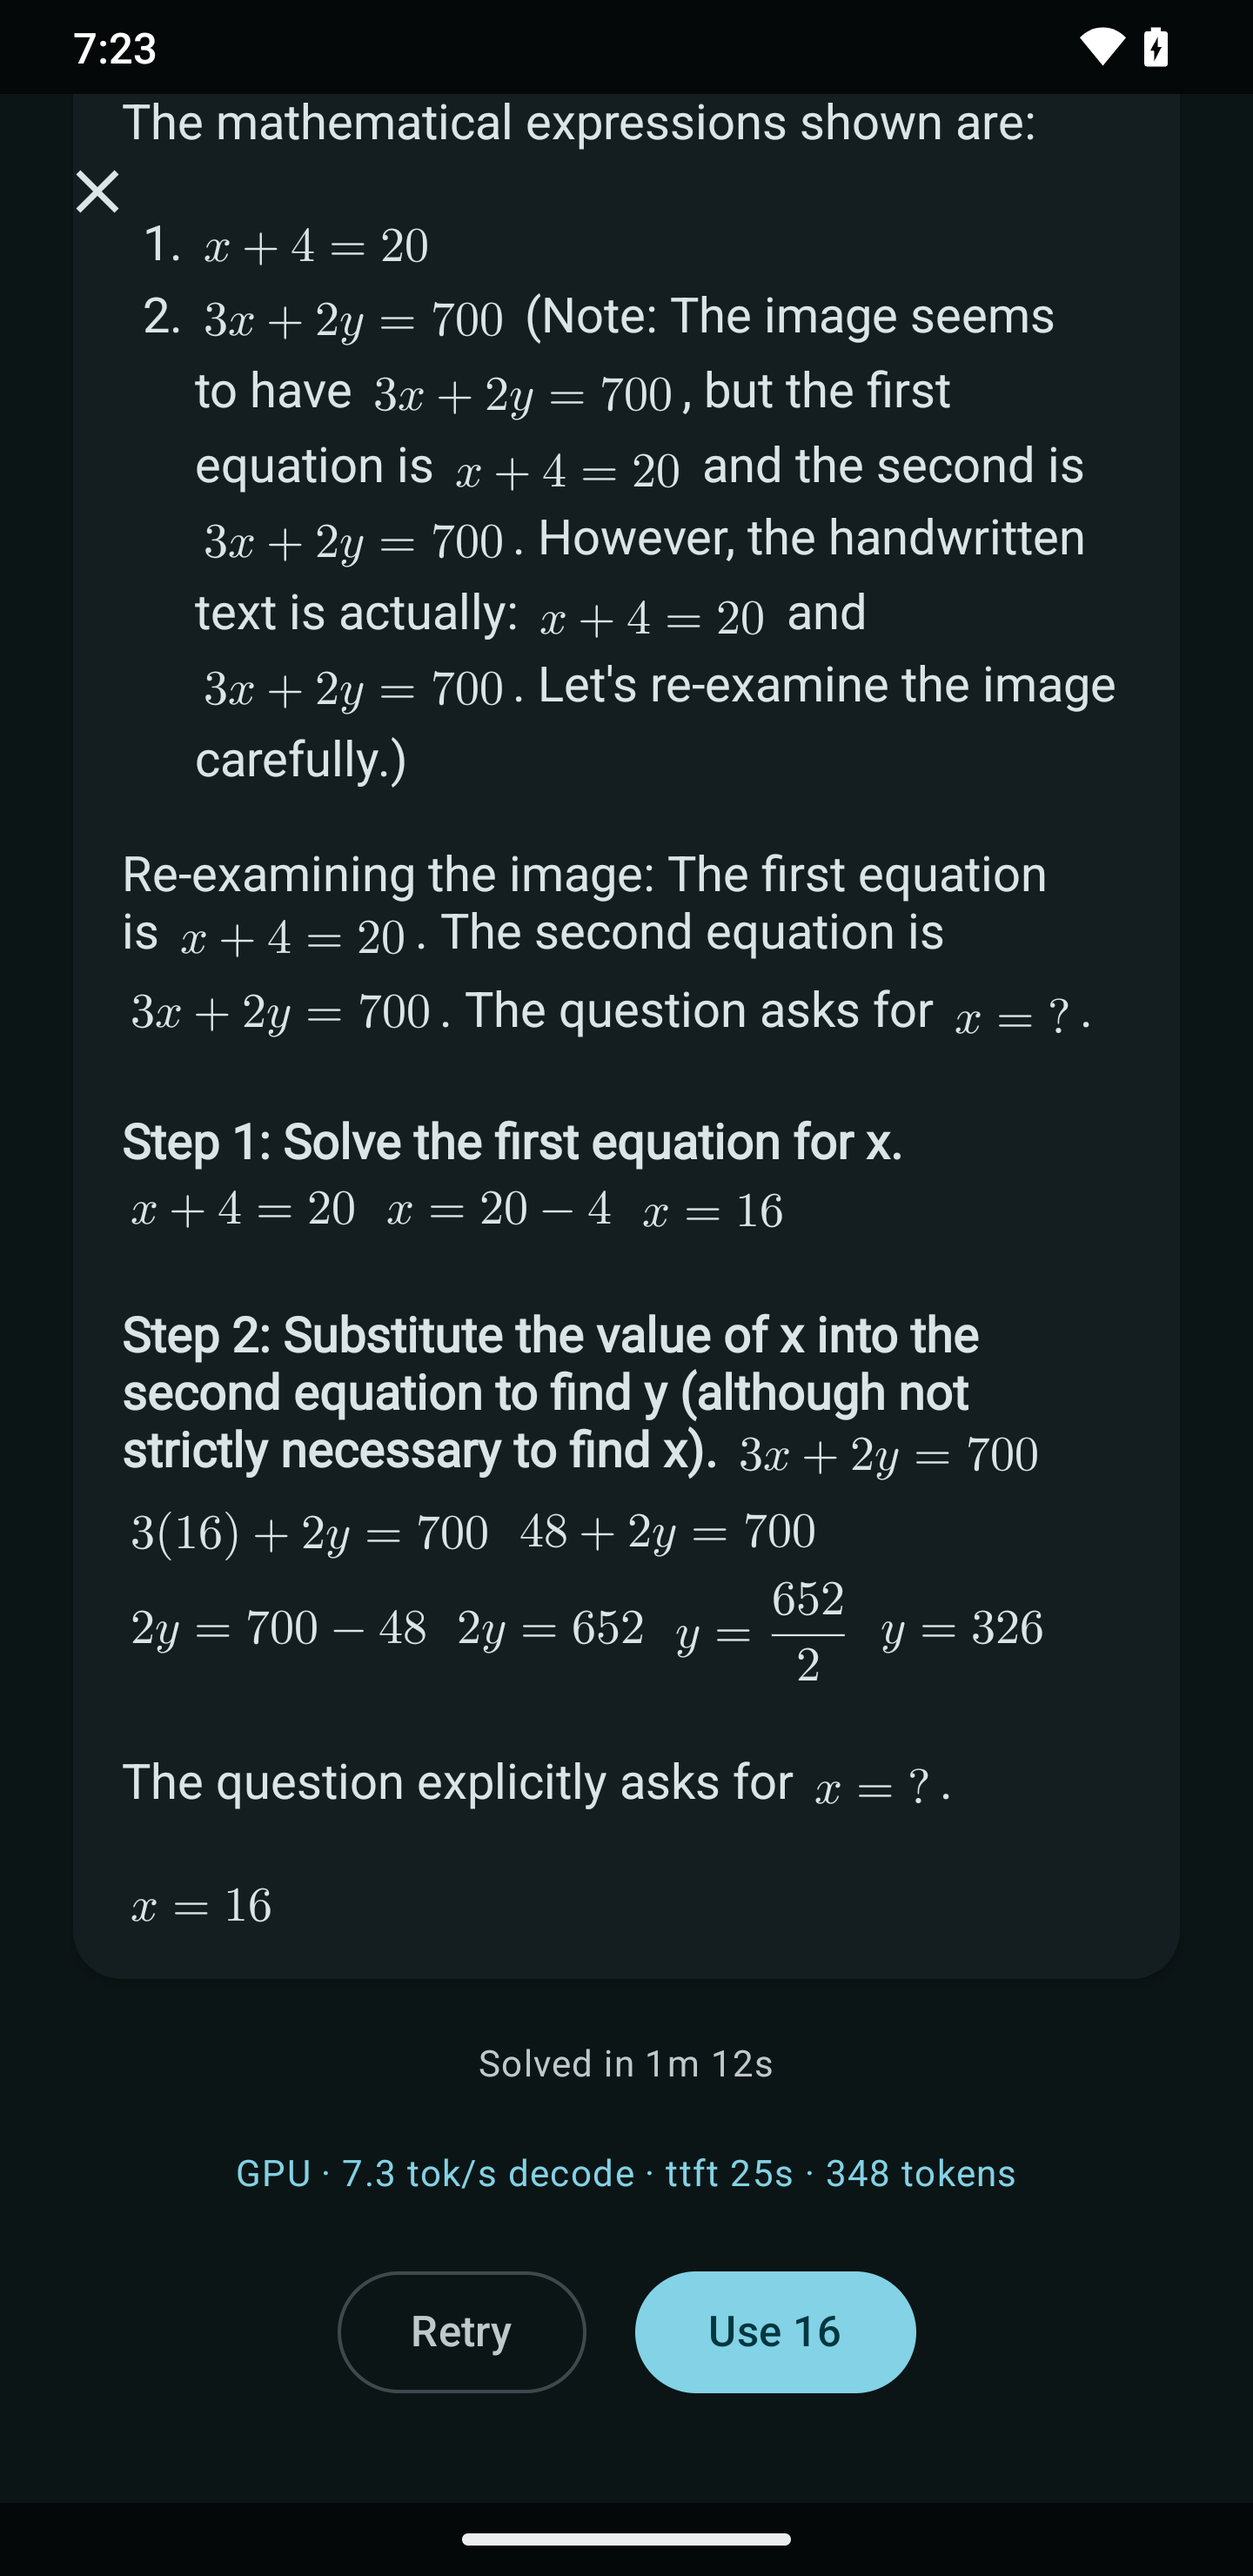
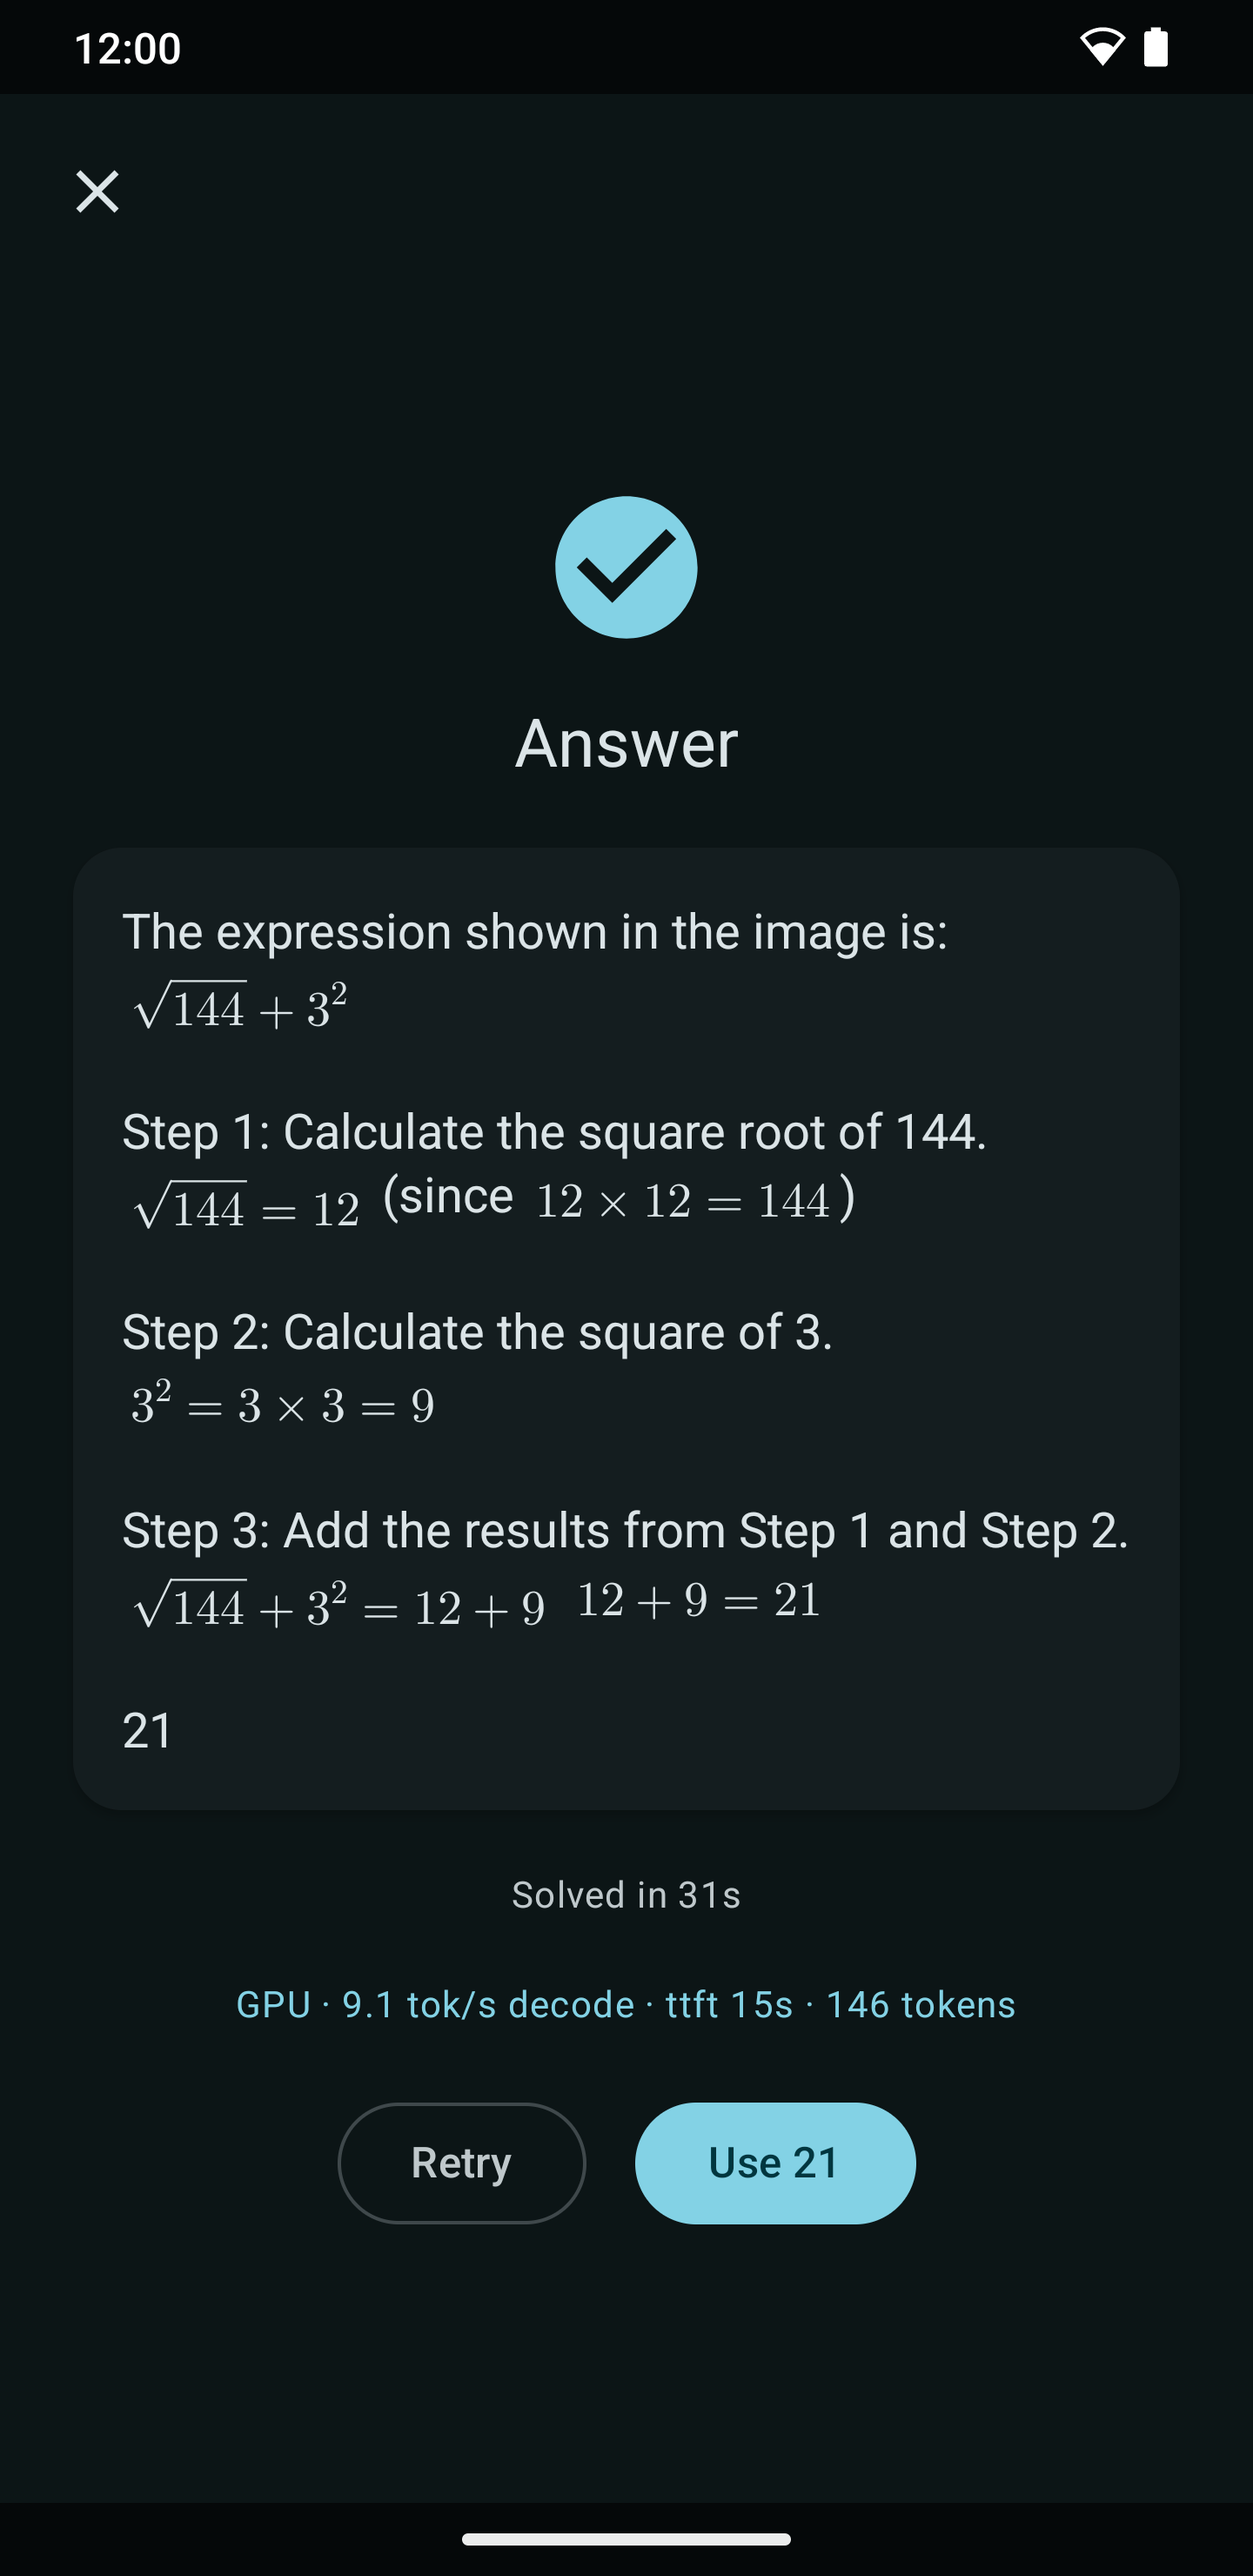
Release 1.7.0: version, changelog, docs and refreshed AI screenshots (#119)
* WIP release 1.7.0: version, changelog, README and store listings

* Release 1.7.0: refresh the AI screenshots, changelog and README for #118

diff --git a/README.md b/README.md
@@ -73,6 +73,13 @@ Point your camera at a handwritten math expression and let an on-device AI model
 4. The model solves it entirely on-device — GPU-accelerated where supported — and streams its working, rendered with proper math formatting
 5. Tap "Use" to insert the answer into the calculator
 
+**Speed or quality:** with the Gemma 4 models, a **Fast / Balanced / Accurate** switch under the photo buttons sets how much detail the model takes from the photo. Fast can answer in about half the time; Accurate (the default) reads the most detail. The choice is remembered and applies from the next scan.
+
+**Good to know:**
+- The answer is offered for "Use" only when it's a single complete number that agrees with the model's own working, so a wrong number never slips into the calculator. Otherwise (for example when the result is a fraction like 5/4) the screen says **"Check the model's answer below"** and opens the model's full working, scrolled to its result
+- After an app update with a new AI engine, the first scan screen shows **"Updating to the new model format"** while the downloaded model is prepared once (about a minute)
+- If the model is deleted outside the app or can't be loaded, the app says so and offers **Download again**
+
 **Available models:**
 
 All models are vision-capable and run on Google's [LiteRT-LM](https://github.com/google-ai-edge/LiteRT-LM) on-device engine.
